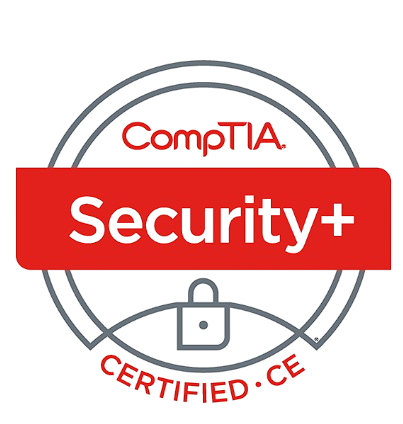
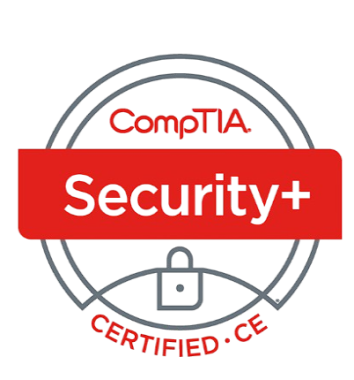
Updated Projects.html

diff --git a/projects.html b/projects.html
@@ -318,8 +318,16 @@ h2 {
 
 /* Card Images */
 .card img {
-    width: 100%;
-    height: auto;
+    width: 200px;
+    height: 200px;
+    border-radius: 0.5rem;
+    object-fit: cover;
+    margin-bottom: 1rem;
+}
+
+.card .img-comptia {
+    width: 200px;
+    height: 235px;
     border-radius: 0.5rem;
     object-fit: cover;
     margin-bottom: 1rem;
@@ -419,12 +427,12 @@ h2 {
                     </div>
                     <div class="card">
                         <img src="certification/comptia_network-removebg-preview.png" alt="CompTIA Network+ Certification" loading="lazy">
-                        <h3>CompTIA Network+</h3>
+                        <h3>CompTIA <br> Network+</h3>
                         <a href="https://www.credly.com/badges/f5ec675e-4e79-476f-a729-5230aec932bb/public_url" class="btn">Show credential</a>
                     </div>
                     <div class="card">
                         <img src="certification/Comptia_Security__1_-removebg-preview.png" alt="CompTIA Security+ Certification" loading="lazy">
-                        <h3>CompTIA Security+</h3>
+                        <h3>CompTIA <br> Security+</h3>
                         <a href="https://www.credly.com/badges/38ba34f9-0f46-42af-b4ce-c10da0d8fa25" class="btn">Show credential</a>
                     </div>
                 </div>
